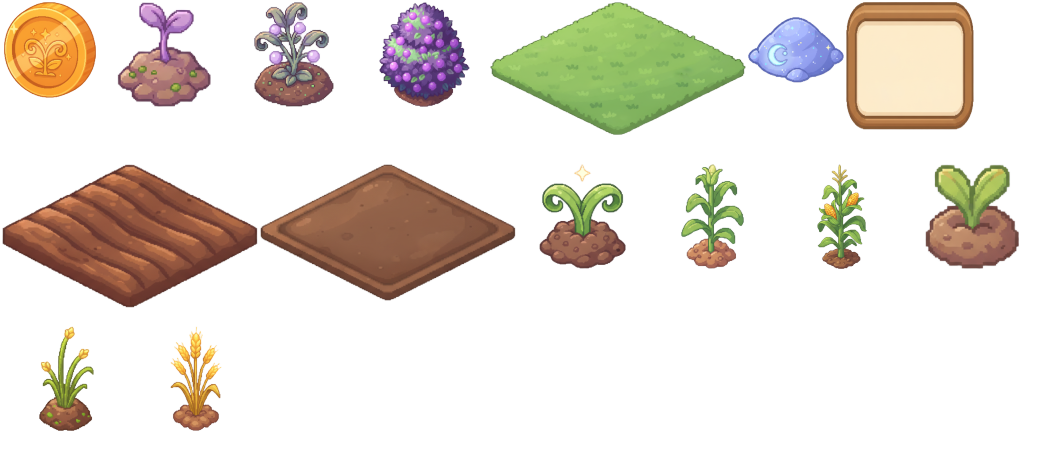
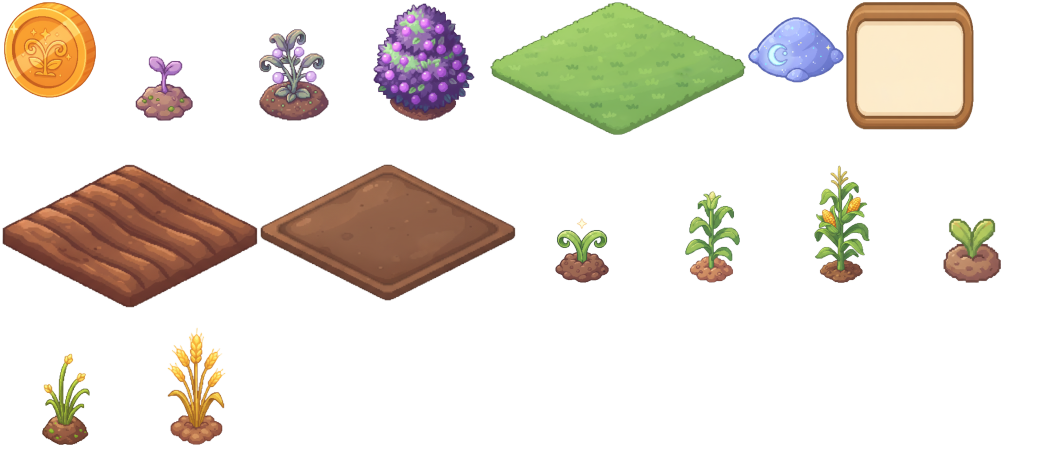
T2.6 + T2.6a: real art pack integration and polish
- jimp pack-atlas pipeline: staged 512px art -> anchored atlas (tiles 256x160
  diamond-centered, crops sunk + staged 65/92/118 size ramp, PANEL_SLICE=18)
- Carrot -> Starcorn with v7 save migration; occupied-plot tile switch; real
  moondust icon; nineslice margins unified; ExpandSign + order cards resized
- syncPlotVisuals handles live plot-count changes; gen:assets retired
- ASSETS.md pipeline rewrite; 156 tests passing

diff --git a/src/scenes/FarmScene.ts b/src/scenes/FarmScene.ts
@@ -424,6 +424,36 @@ export class FarmScene extends Phaser.Scene {
   }
 
   /**
+   * Keep the built tile/sprite set in step with `plots.length`, so a plot
+   * count change outside `tryExpand` (a dev reset of an expanded save back
+   * to 12 plots, or importing a 16-plot save) renders correctly without a
+   * reload: extras are destroyed, missing ones are created, and everything
+   * remaining is repositioned for the new grid origin. A cheap length check
+   * on the refresh tick; a no-op after `tryExpand`, which builds its own.
+   */
+  private syncPlotVisuals(plotCount: number): void {
+    if (this.plotTiles.length === plotCount) return;
+    const rowCount = plotCount / FARM_COLS;
+    while (this.plotTiles.length > plotCount) {
+      this.plotTiles.pop()?.destroy();
+      const sprite = this.cropSprites.pop();
+      if (sprite !== undefined) {
+        this.tweens.killTweensOf(sprite);
+        sprite.destroy();
+      }
+      this.plotPositions.pop();
+      this.readyActive.pop();
+      this.popActive.pop();
+    }
+    for (let index = 0; index < this.plotTiles.length; index++) {
+      this.repositionPlotVisuals(index, rowCount);
+    }
+    while (this.plotTiles.length < plotCount) {
+      this.createPlotVisuals(this.plotTiles.length, rowCount);
+    }
+  }
+
+  /**
    * Re-derive every plot's visuals from `gameState` and the game clock:
    * show/hide the sprite, set its growth-stage frame, and start/stop the
    * ready-state bounce and glow. Reads state fresh every call - the scene
@@ -431,6 +461,7 @@ export class FarmScene extends Phaser.Scene {
    */
   private refreshCrops(): void {
     const plots = gameState.getState().plots;
+    this.syncPlotVisuals(plots.length);
     const nowMs = now();
     for (let index = 0; index < plots.length; index++) {
       const plot = plots[index];

diff --git a/src/ui/OrderBoard.ts b/src/ui/OrderBoard.ts
@@ -40,18 +40,23 @@ const CARD_HEIGHT = 280;
 const CARD_START_Y = -250;
 const CARD_SPACING = 300;
 
-/** Y offsets of the two item rows within a card; a 1-item order uses only row 0. */
-const ITEM_ROW_YS = [-85, -20] as const;
+/**
+ * Y offsets of the two item rows within a card; a 1-item order uses only
+ * row 0. Sized against the worst case: two rows, "Glowberry 10/10" in 40px
+ * bold, 1.3x icons - nothing may collide with the buttons (left edge x 120)
+ * or the card border.
+ */
+const ITEM_ROW_YS = [-88, -16] as const;
 const ITEM_ICON_X = -360;
-const ITEM_ICON_SCALE = 0.4;
-const ITEM_NAME_X = -310;
-const ITEM_COUNT_X = -100;
+const ITEM_ICON_SCALE = 0.52;
+const ITEM_NAME_X = -300;
+const ITEM_COUNT_X = -70;
 
-const REWARD_ROW_Y = 60;
+const REWARD_ROW_Y = 62;
 const REWARD_COIN_X = -360;
-const REWARD_COIN_SCALE = 0.35;
-const REWARD_COIN_TEXT_X = -315;
-const REWARD_XP_TEXT_X = -150;
+const REWARD_COIN_SCALE = 0.45;
+const REWARD_COIN_TEXT_X = -305;
+const REWARD_XP_TEXT_X = -130;
 
 const FULFILL_BUTTON_X = 240;
 const FULFILL_BUTTON_Y = -60;
@@ -102,28 +107,28 @@ const CLOSE_STYLE: Phaser.Types.GameObjects.Text.TextStyle = {
  * card; only the have/need count carries the coverage color. */
 const ITEM_NAME_STYLE: Phaser.Types.GameObjects.Text.TextStyle = {
   fontFamily: 'Arial, sans-serif',
-  fontSize: '36px',
+  fontSize: '40px',
   fontStyle: 'bold',
   color: '#4a3218',
 };
 
 const ITEM_COUNT_STYLE: Phaser.Types.GameObjects.Text.TextStyle = {
   fontFamily: 'Arial, sans-serif',
-  fontSize: '36px',
+  fontSize: '40px',
   fontStyle: 'bold',
   color: COVERED_COLOR,
 };
 
 const REWARD_COIN_STYLE: Phaser.Types.GameObjects.Text.TextStyle = {
   fontFamily: 'Arial, sans-serif',
-  fontSize: '34px',
+  fontSize: '38px',
   fontStyle: 'bold',
   color: '#4a3218',
 };
 
 const REWARD_XP_STYLE: Phaser.Types.GameObjects.Text.TextStyle = {
   fontFamily: 'Arial, sans-serif',
-  fontSize: '30px',
+  fontSize: '34px',
   color: '#7a5518',
 };
 

diff --git a/src/data/crops.ts b/src/data/crops.ts
@@ -5,12 +5,17 @@ export type CropId = 'sunwheat' | 'starcorn' | 'glowberry';
 export const CROP_STAGES = 3;
 
 /**
- * Crop sprite frames are square with the plant's base drawn on a fixed
- * baseline, so a sprite sits on a tile by placing it at the tile's iso center
- * with origin (0.5, CROP_BASELINE_Y / CROP_FRAME_SIZE). See ASSETS.md.
+ * Crop sprite frames are square, anchored by a fixed baseline: a sprite sits
+ * on a tile by placing it at the tile's iso center with origin
+ * (0.5, CROP_BASELINE_Y / CROP_FRAME_SIZE). The packed art's lowest opaque
+ * row is at CROP_BASELINE_Y + CROP_SINK - sunk a little below the anchored
+ * baseline so the mound's visual middle sits on the diamond center, hugging
+ * the tile. CROP_SINK is enforced by tools/pack-atlas.mjs (keep them in
+ * sync). See ASSETS.md.
  */
 export const CROP_FRAME_SIZE = 128;
 export const CROP_BASELINE_Y = 104;
+export const CROP_SINK = 14;
 
 export interface CropDef {
   id: CropId;

diff --git a/src/ui/ExpandSign.ts b/src/ui/ExpandSign.ts
@@ -14,14 +14,15 @@ import type { GameStateData } from '../systems/gameState';
 
 const SIGN_X = 540;
 const SIGN_Y = 1300;
-const SIGN_WIDTH = 300;
-const SIGN_HEIGHT = 90;
+/** Sized so "Expand - 500" + coin clear the PANEL_SLICE border comfortably. */
+const SIGN_WIDTH = 340;
+const SIGN_HEIGHT = 100;
 /** Above the field and crop sprites, alongside floating text (1900). */
 const SIGN_DEPTH = 1900;
 
-const COIN_OFFSET_X = -78;
+const COIN_OFFSET_X = -100;
 const COIN_SCALE = 0.4;
-const TEXT_OFFSET_X = -50;
+const TEXT_OFFSET_X = -72;
 
 const LABEL_COLOR = '#4a3218';
 const FLASH_COLOR = '#e03131';

diff --git a/ASSETS.md b/ASSETS.md
@@ -74,13 +74,20 @@ TILE_FRAME_HEIGHT)`, so grid math and hit-testing never see the taller
 
 ## Crop sprite anchoring
 
-Crop frames are 128x128 (`CROP_FRAME_SIZE`) with the plant's lowest opaque
-row on the baseline y = 104 (`CROP_BASELINE_Y`), both in `src/data/crops.ts`.
-Placing a crop = position it at the tile's iso center with origin
-`(0.5, CROP_BASELINE_Y / CROP_FRAME_SIZE)`. The packer enforces the baseline
-(trim, fit 128x120 preserving aspect - effectively capped at 105 tall by the
-baseline - bottom-pinned at 104); masters just need the plant to touch the
-bottom of its opaque bounds.
+Crop frames are 128x128 (`CROP_FRAME_SIZE`), anchored on the baseline y = 104
+(`CROP_BASELINE_Y`): placing a crop = position it at the tile's iso center
+with origin `(0.5, CROP_BASELINE_Y / CROP_FRAME_SIZE)`. The packed art's
+lowest opaque row sits at `CROP_BASELINE_Y + CROP_SINK` (104 + 14) - sunk
+below the anchored baseline so the mound's visual middle lands on the diamond
+center, hugging the tile. All three constants live in `src/data/crops.ts`.
+
+The packer enforces the convention: trim, center horizontally (bbox center at
+x = 64), scale to the growth stage's height target - stage 2 = 100% of the
+max legal height (`CROP_BASELINE_Y + CROP_SINK` = 118), stage 1 = 78%,
+stage 0 = 55%, so stages read small -> medium -> full at a glance - with
+width capped at 128 (a width-limited sprite that misses its height target is
+logged), then bottom-pin at 104 + 14. Masters just need the plant to touch
+the bottom of its opaque bounds.
 
 ## Icons
 
@@ -108,8 +115,8 @@ log line whenever the panel art changes.
 
 ## The retired placeholder generator
 
-`tools/gen-assets.mjs` (`npm run gen:assets`) drew the original programmatic
-placeholder art. It is **retired** and kept only for history - do not run it;
-it would overwrite the atlas with placeholder art that no longer matches the
-frame list (no `plot_occupied`, `starcorn_*`, or `moondust` frames). Use
-`npm run pack:atlas` instead.
+`tools/gen-assets.mjs` drew the original programmatic placeholder art. It is
+**retired** and kept only for history - its npm script has been removed; do
+not run it directly either, as it would overwrite the atlas with placeholder
+art that no longer matches the frame list (no `plot_occupied`, `starcorn_*`,
+or `moondust` frames). Use `npm run pack:atlas` instead.